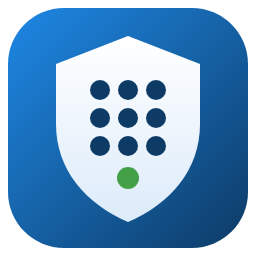
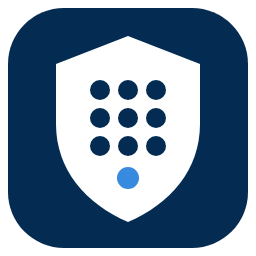
Arcnode IT branding, light touch
- Icon, logos and banner recoloured to the Arcnode palette (flat Navy 900,
  Blue 400 status dot, no gradients)
- README: "Built by Arcnode IT" section with a link for professional installs

diff --git a/README.md b/README.md
@@ -267,6 +267,16 @@ ruff check custom_components tests
 
 Tests run against `tests/fake_controller.py`. It speaks both protocols with the real cryptography and reproduces a real controller's behaviour and event-log lines, including refusing to arm with a zone open. Pull requests are welcome.
 
+## Built by Arcnode IT
+
+<a href="https://arcnode.com.au"><img src="https://raw.githubusercontent.com/olliemaller/olliemaller/main/assets/avatar.png" width="64" align="left" alt="Oliver Maller" style="margin-right:16px"></a>
+
+This integration is built and maintained by **Oliver Maller** at **[Arcnode IT](https://arcnode.com.au)**, a Melbourne company that designs, installs and supports UniFi networks, Apple HomeKit and alarm systems.
+
+Bugs and feature requests go in [issues](https://github.com/olliemaller/ha-protege-wx/issues). If you'd like a Protege WX, UniFi or HomeKit system installed or integrated professionally in Melbourne or Victoria, [get in touch with Arcnode](https://arcnode.com.au).
+
+<br clear="left">
+
 ## Credits
 
 - Protocol work builds on [protege-wx-cli](https://github.com/mitchell-johnson/protege-wx-cli) by Mitchell Johnson (MIT), extended for web interface 2.3.x.
